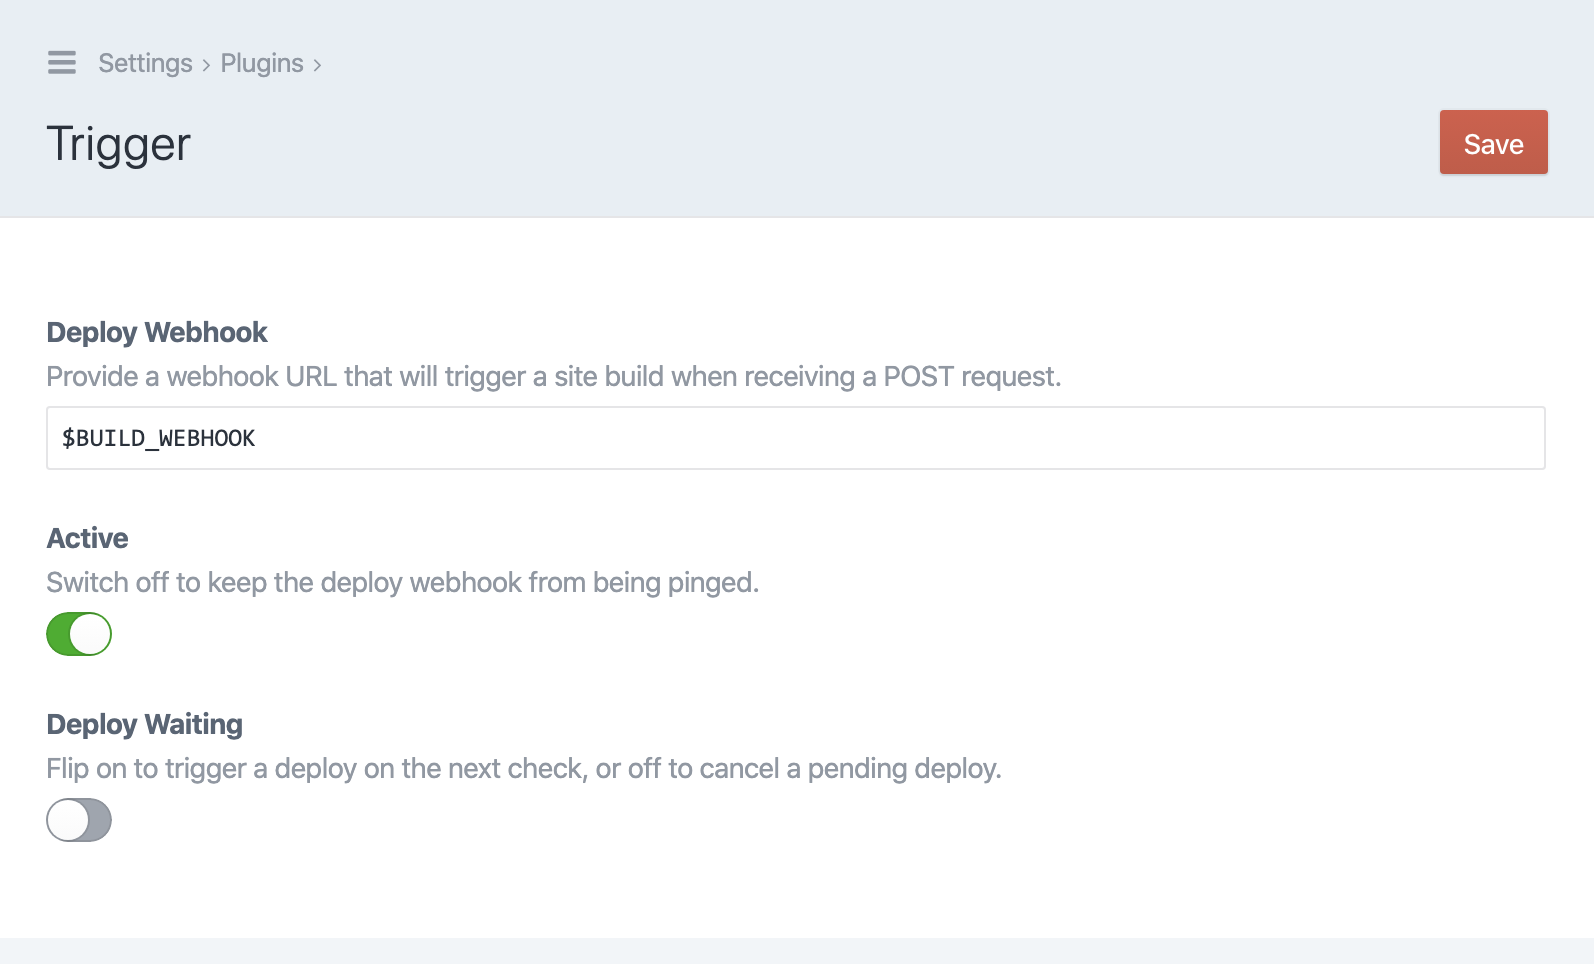
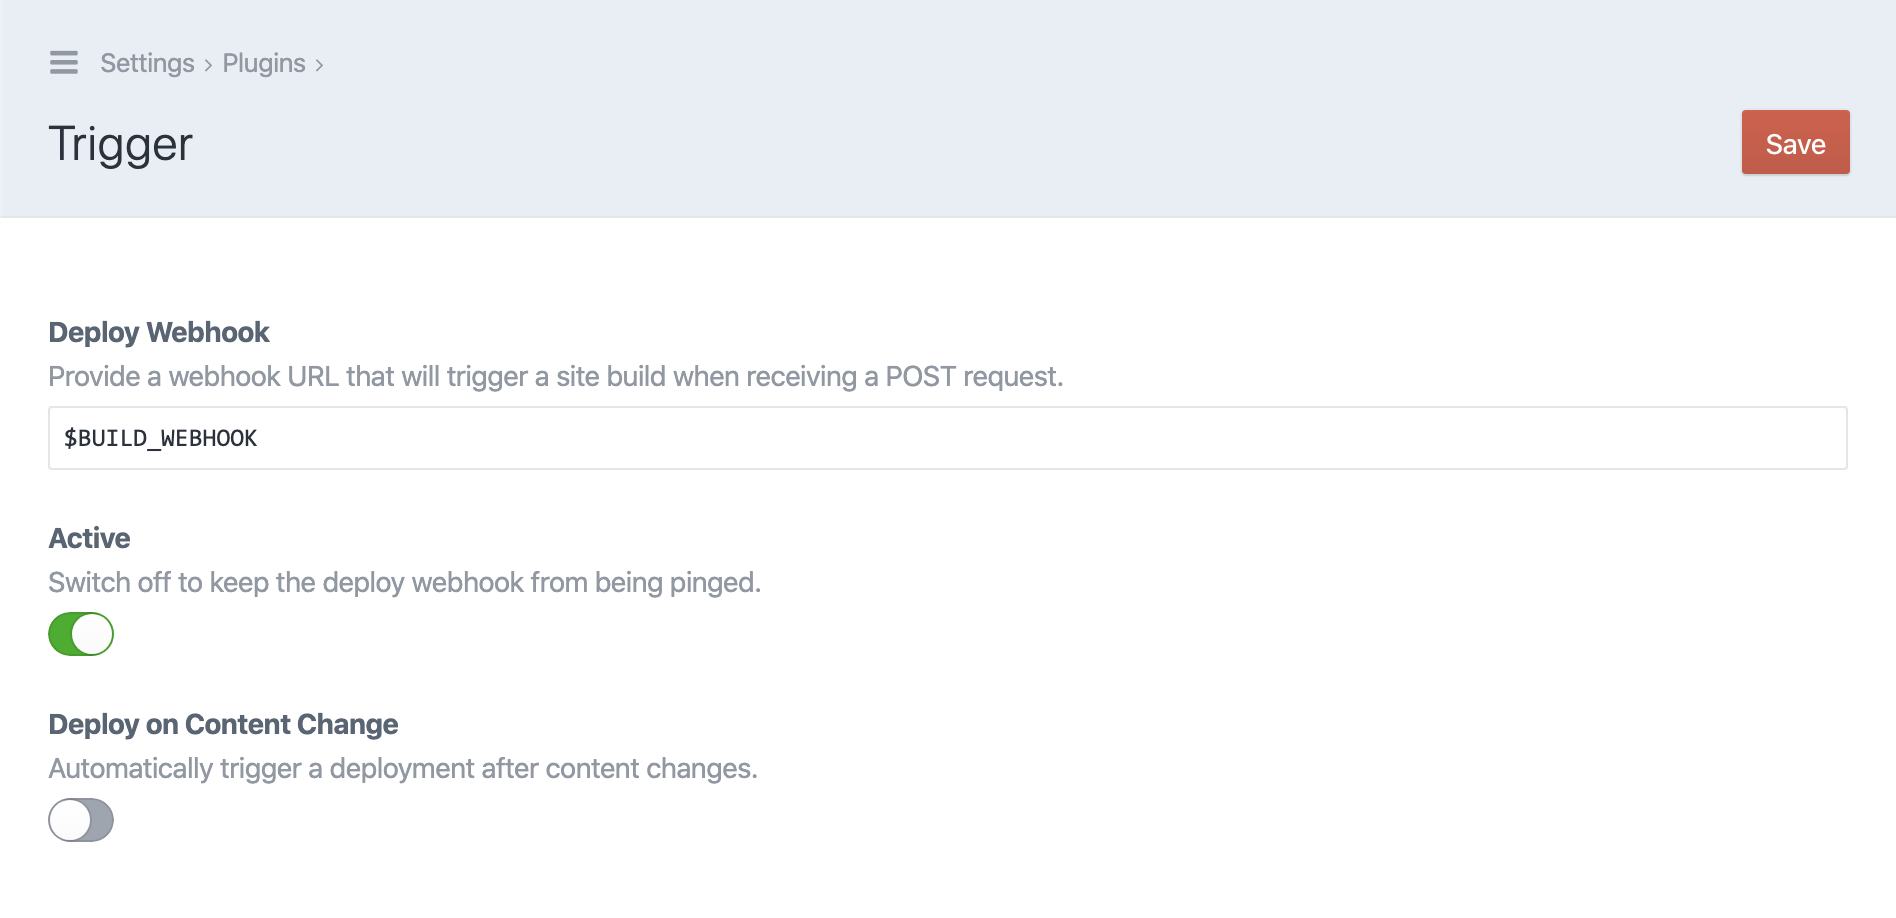
Add cancel command, update readme.

diff --git a/src/services/Deployments.php b/src/services/Deployments.php
@@ -160,23 +160,23 @@ class Deployments extends Component
      */
     public function pending(): bool
     {
-        return $this->_getDeploymentStatus() == 'pending';
+        return $this->_getDeploymentStatus() === StatusModel::STATUS_PENDING;
     }
 
     /**
      * Sets flag indicating that changes are ready to be deployed.
      */
-    public function flagForDeploy(): void
+    public function flagForDeploy(): bool
     {
-        $this->_updateDeploymentStatus('pending');
+        return $this->_updateDeploymentStatus(StatusModel::STATUS_PENDING);
     }
 
     /**
      * Turns off flag indicating that changes are ready to be deployed.
      */
-    public function resetDeployFlag(): void
+    public function resetDeployFlag(): bool
     {
-        $this->_updateDeploymentStatus();
+        return $this->_updateDeploymentStatus();
     }
 
 

diff --git a/src/console/controllers/DeployController.php b/src/console/controllers/DeployController.php
@@ -40,4 +40,22 @@ class DeployController extends Controller
 
         return ExitCode::OK;
     }
+
+    /**
+     * Cancels pending changes.
+     *
+     * @return integer
+     */
+    public function actionCancel(): int
+    {
+        if (Trigger::$plugin->deployments->pending())
+        {
+            $this->stdout('canceled deployment' . PHP_EOL);
+            return Trigger::$plugin->deployments->resetDeployFlag() ? ExitCode::OK : ExitCode::UNSPECIFIED_ERROR;
+        }
+
+        $this->stdout('nothing pending' . PHP_EOL);
+
+        return ExitCode::OK;
+    }
 }

diff --git a/readme.md b/readme.md
@@ -11,7 +11,7 @@ A simple plugin to kick off builds asynchronously, ideal for something like a he
 
 ## Features
 
-Quick setup for defining a deploy webhook and switching things on or off:
+Quick setup for publishing changes immediately, or collecting them for routine checks via cron:
 ![control panel settings sreenshot](resources/settings.png)
 
 Dashboard widget for instant deploys:
@@ -20,24 +20,23 @@ Dashboard widget for instant deploys:
 Run checks or trigger deploys from the command line:
 
 ```shell
-trigger/deploy/check # Triggers a build if changes are pending.
-trigger/deploy/go    # Immediately triggers a deploy build.
+trigger/deploy/check  # Triggers a build if changes are pending.
+trigger/deploy/go     # Immediately triggers a deploy build.
+trigger/deploy/cancel # Cancels pending changes.
 ```
 
 ## Setup
 
 1. Require with `composer require workingconcept/craft-trigger`, then install via CLI or control panel.
 2. Visit Settings, set your deploy webhook URL.
-3. Set up a cron job to run `craft trigger/deploy/check`, which will call your webhook URL only if changes have been made.
+3. To batch changes for deploy, add a cron job to run `craft trigger/deploy/check`, which post to your webhook URL only if changes are pending.
 4. Optionally add the Dashboard widget to your layout for quick one-click builds.
 
 ## How it Works
 
-Publishing, editing, and deleting Entries will switch on the plugin's _Deploy Waiting_ setting. If that setting is enabled the next time a check runs, a deploy will be triggered and the setting will be switched off again.
+Saving, reordering, deleting and restoring Elements will either trigger a build or switch on a `pending` flag in the database, depending on the _Deploy on Content Change_ setting you chose. Running `craft trigger/deploy/check` or manually triggering a build from the Dashboard or with `trigger/deploy/go` will reset that flag.
 
-You can manually flip on the setting and it'll work the same way, and you can turn it off to cancel the next build if it's not yet been triggered.
-
-Draft edits won't be flagged for changes.
+Draft edits won't be flagged as changes.
 
 ---
 
